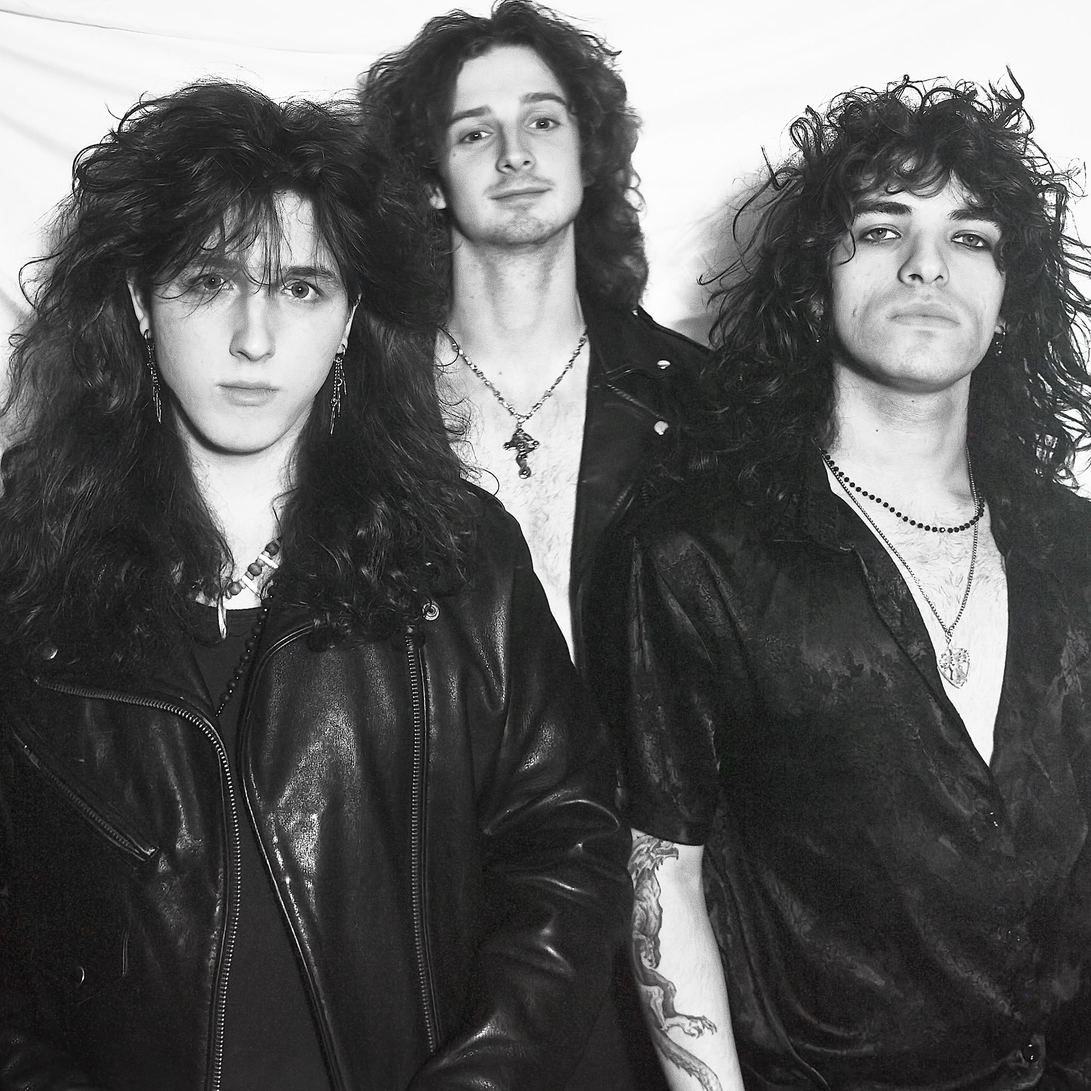
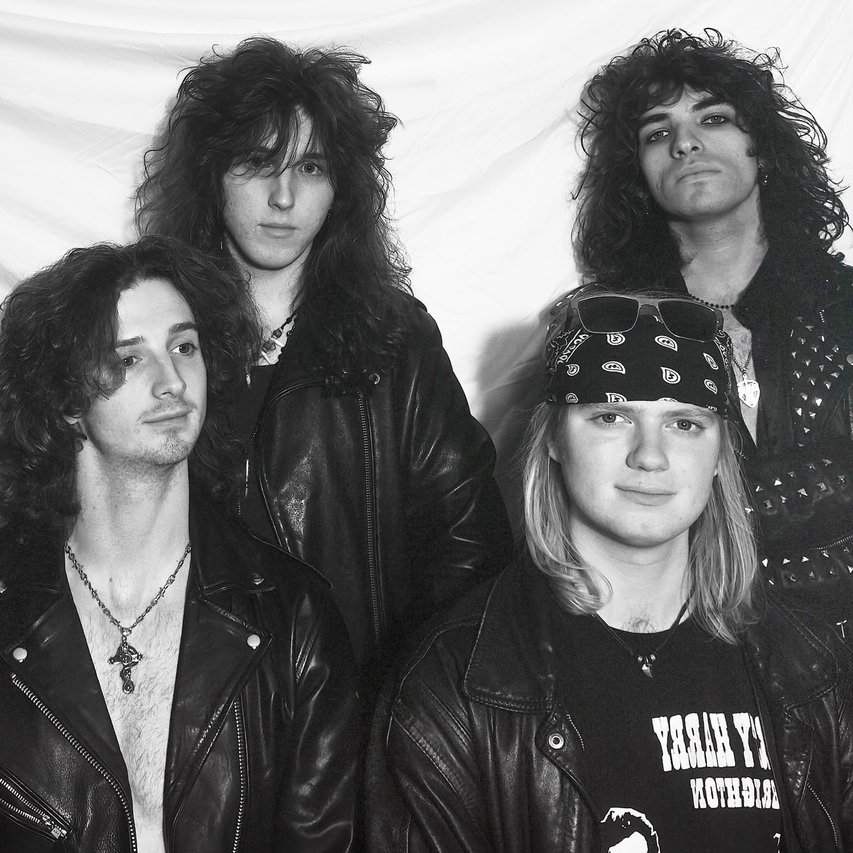
sethy poo

diff --git a/index.html b/index.html
@@ -309,7 +309,7 @@
         <p><strong>VAIN WILD</strong>. Every decade a British Rock n' Roll band comes around to set fire to the musical landscape. VAIN WILD aims to be that band.
 With a sound heavily inspired by the 80s Glam Metal movement, they have grown massively on social media for their refreshing take on the genre and their magnetic presence. 
 Having toured the country in support of their 2026 debut album, not a single person leaves a VAIN WILD show unsatisfied. 
-VAIN WILD is Artem, James Brown and Harry Hallifax </p>
+VAIN WILD is Artem, James Brown, Harry Hallifax, Seth Ward</p>
         <p class="booking">Bookings - <a href="mailto:Vainwild@gmail.com">Vainwild@gmail.com</a></p>
       </div>
     </div>
